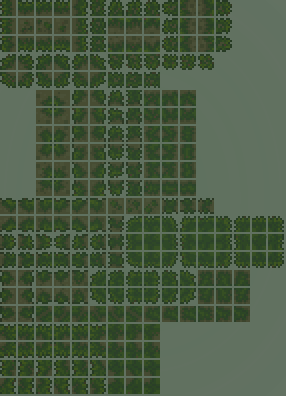
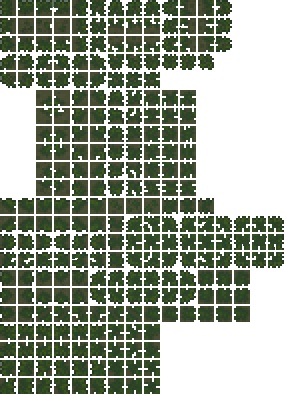
World generation finally done

diff --git a/Content/World.cs b/Content/World.cs
@@ -20,11 +20,54 @@ namespace Stalkerraria
     {
         public override void ModifyWorldGenTasks(List<GenPass> tasks, ref double totalWeight)
         {
-            int genIndex = tasks.FindIndex(genpass => genpass.Name.Equals("Micro Biomes"));
-            tasks.Insert(genIndex + 1, new PassLegacy("Adding zone", delegate
+            int genIndex = tasks.FindIndex(genpass => genpass.Name.Equals("Living Trees"));
+            tasks.Insert(genIndex - 1, new PassLegacy("Adding zone", delegate
             {
-                WorldGen.TileRunner(Main.spawnTileX, Main.spawnTileY, 42, 30, ModContent.TileType<WastelandGrass>(), true, 15, 0, true, true);
+                int startX = (Main.maxTilesX / 2) + WorldGen.genRand.Next(150, 250);
+                int endX = startX + WorldGen.genRand.Next(200, 250) + Main.maxTilesY / 200;
+                int attempts = 0;
+                bool validLocation = false;
+                for (int i = startX; i < endX; i++)
+                {
+                    int y = (int)(Main.worldSurface * 0.5f);
+                    while (y < Main.worldSurface)
+                    {
+                        if (WorldGen.SolidTile(i, y))
+                        {
+                            if (i == startX)
+                            {
+                                Dictionary<ushort, int> dictionary = new Dictionary<ushort, int>();
+                                WorldUtils.Gen(new Point(startX, y + 15), new Shapes.Rectangle(endX - startX, 30), new Actions.TileScanner(TileID.Dirt, TileID.Cloud).Output(dictionary));
+                                int dirtCount = dictionary[TileID.Dirt];
+                                int cloudCount = dictionary[TileID.Cloud];
+                                if (dirtCount > endX * 30 / 3 && cloudCount == 0)
+                                {
+                                    validLocation = true;
+                                }
+                                else if (cloudCount != 0)
+                                {
+                                    y++;
+                                }
+                            }
+                            if (validLocation || attempts >= 40)
+                            {
+                                WorldGen.EmptyLiquid(i, y);
+                                WorldGen.TileRunner(i, y, WorldGen.genRand.Next(35, 45), WorldGen.genRand.Next(10, 15), ModContent.TileType<WastelandGrass>());
+                            }
+                            else
+                            {
+                                attempts++;
+                                endX--;
+                                startX--;
+                                i = startX;
+                            }
+                            break;
+                        }
+                        y++;
+                    }
+                }
             }));
+
         }
     }
 }

diff --git a/Content/Tiles/WastelandGrass.cs b/Content/Tiles/WastelandGrass.cs
@@ -47,7 +47,7 @@ namespace Stalkerraria.Content.Tiles
             {
                 if (!tile.BottomSlope && !tile.TopSlope && !tile.IsHalfBlock && !tile.TopSlope)
                 {
-                    tileAbove.TileType = TileID.WaterFountain;//(ushort)ModContent.TileType<>();
+                    tileAbove.TileType = TileID.Mythril;//(ushort)ModContent.TileType<>();
                     tileAbove.HasTile = true;
                     tileAbove.TileFrameY = 0;
                     tileAbove.TileFrameX = (short)(WorldGen.genRand.Next(8) * 18);
@@ -64,6 +64,17 @@ namespace Stalkerraria.Content.Tiles
                 if (adjacents.Count > 0)
                 {
                     Point p = adjacents[Main.rand.Next(adjacents.Count)];
+                    if (HasOpening(p.X, p.Y))
+                    {
+                        Framing.GetTileSafely(p.X, p.Y).TileType = (ushort)ModContent.TileType<WastelandGrass>();
+                        if (Main.netMode == NetmodeID.Server)
+                            NetMessage.SendTileSquare(-1, p.X, p.Y, 1, TileChangeType.None);
+                    }
+                }
+                List<Point> adjacents2 = OpenAdjacents(i, j, TileID.Grass);
+                if (adjacents2.Count > 0)
+                {
+                    Point p = adjacents2[Main.rand.Next(adjacents.Count)];
                     if (HasOpening(p.X, p.Y))
                     {
                         Framing.GetTileSafely(p.X, p.Y).TileType = (ushort)ModContent.TileType<WastelandGrass>();
